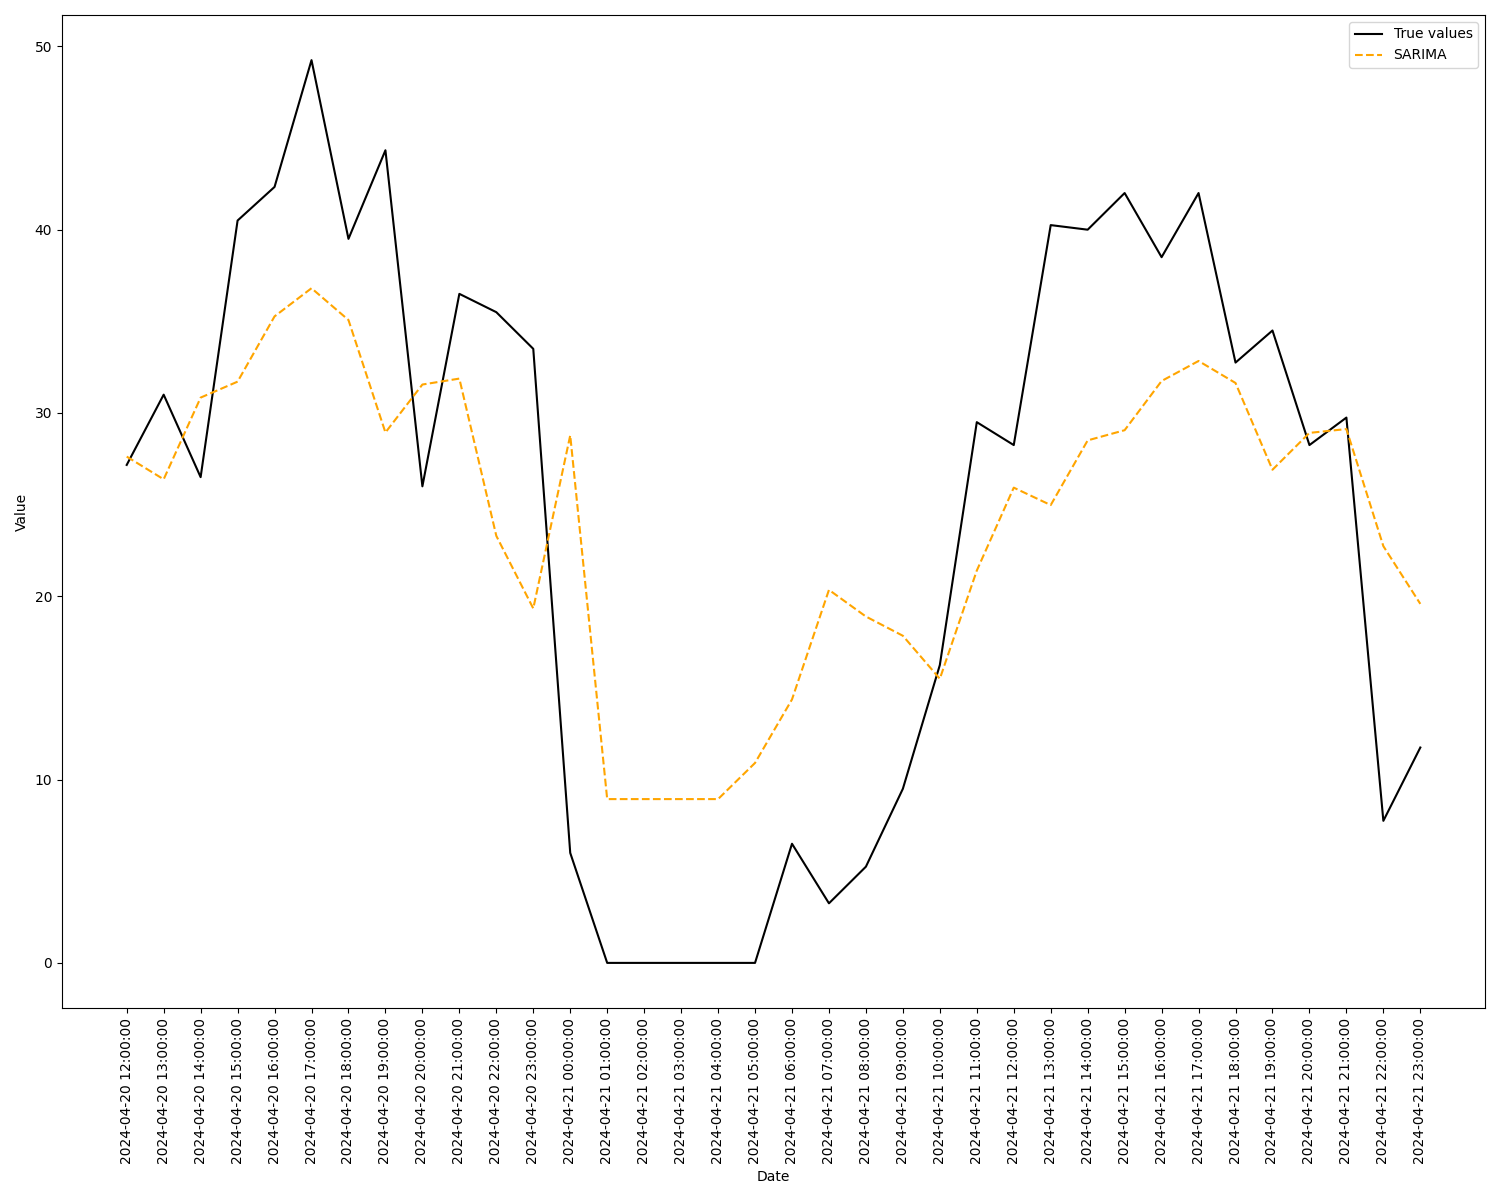
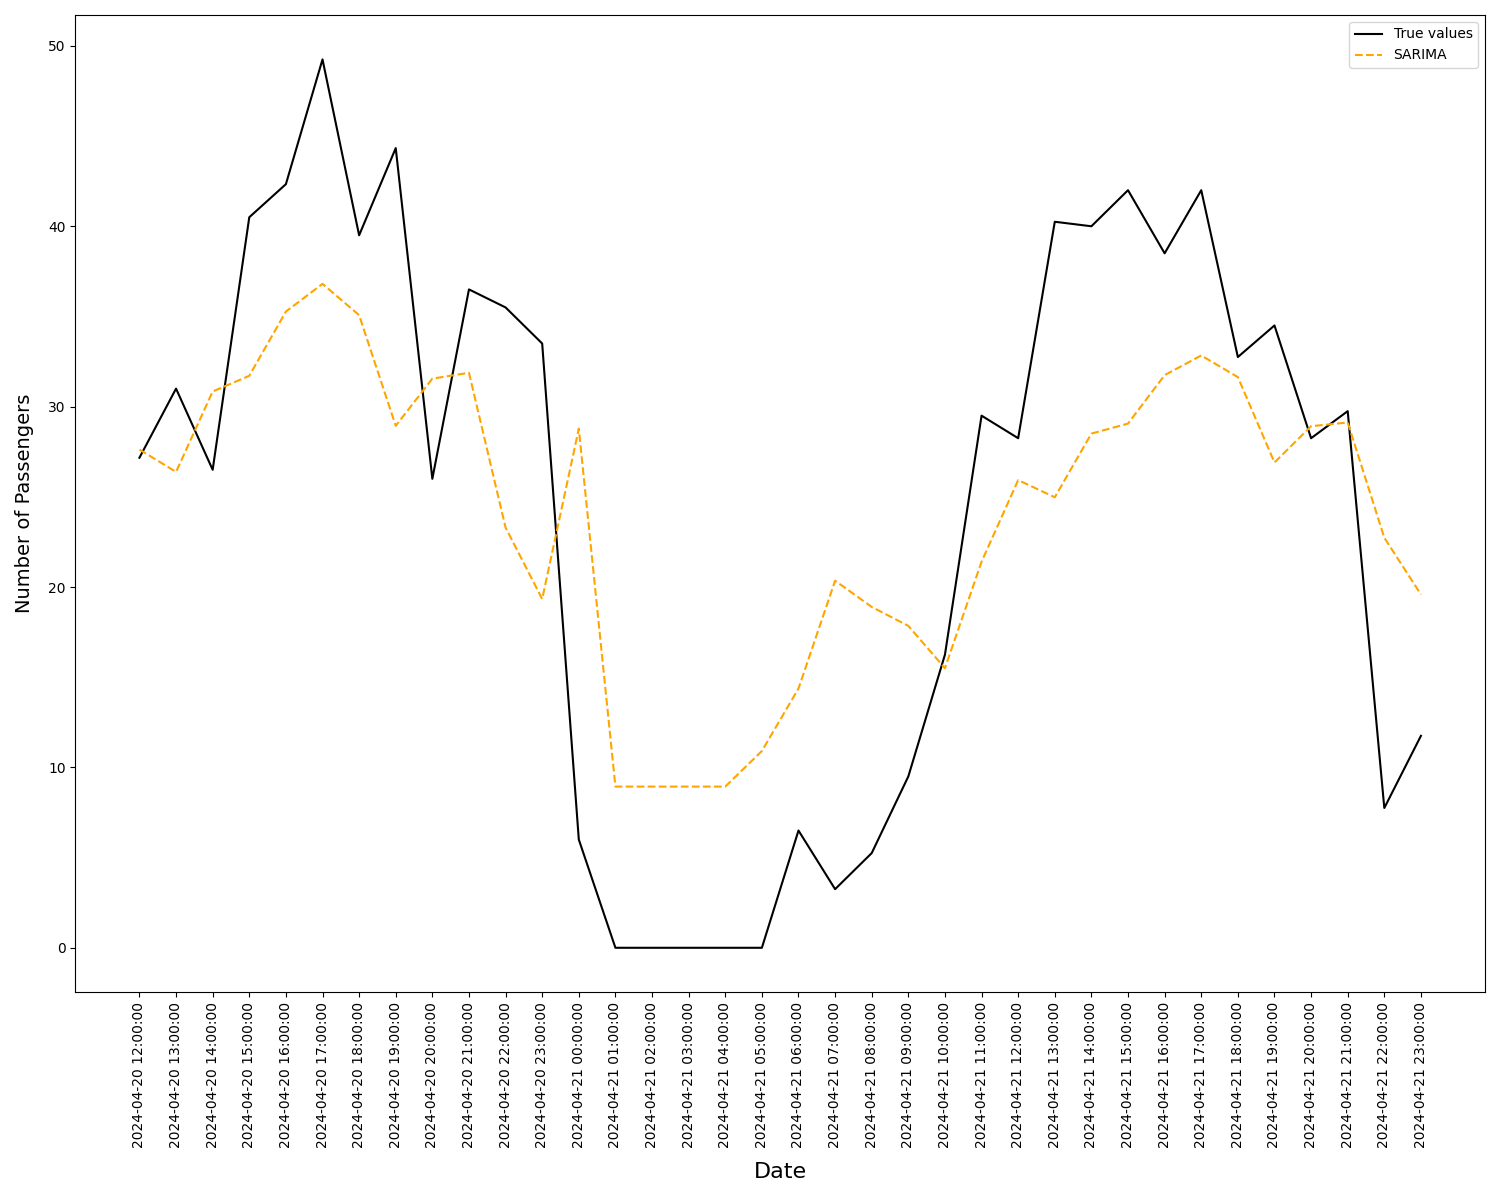
changed label sizing

diff --git a/src/plot_forecasts.py b/src/plot_forecasts.py
@@ -23,11 +23,12 @@ def plot_test_forecasts(df_test, test_forecasts:dict, forecast_colors:list, save
     plt.legend()
 
     # set axis
-    plt.xlabel('Date')
-    plt.ylabel('Value')
+    plt.xlabel('Date', fontsize=16, labelpad=10)
+    plt.ylabel('Number of Passengers', fontsize=14, labelpad=10)
 
-    # show only every 6th tick
-    #plt.xticks(df_test['ds'][::2])
+    # increase size of x and y axis titles
+    plt.xticks(fontsize=10)
+    plt.yticks(fontsize=10)
 
     # turn the x-axis labels
     plt.xticks(rotation=90)
